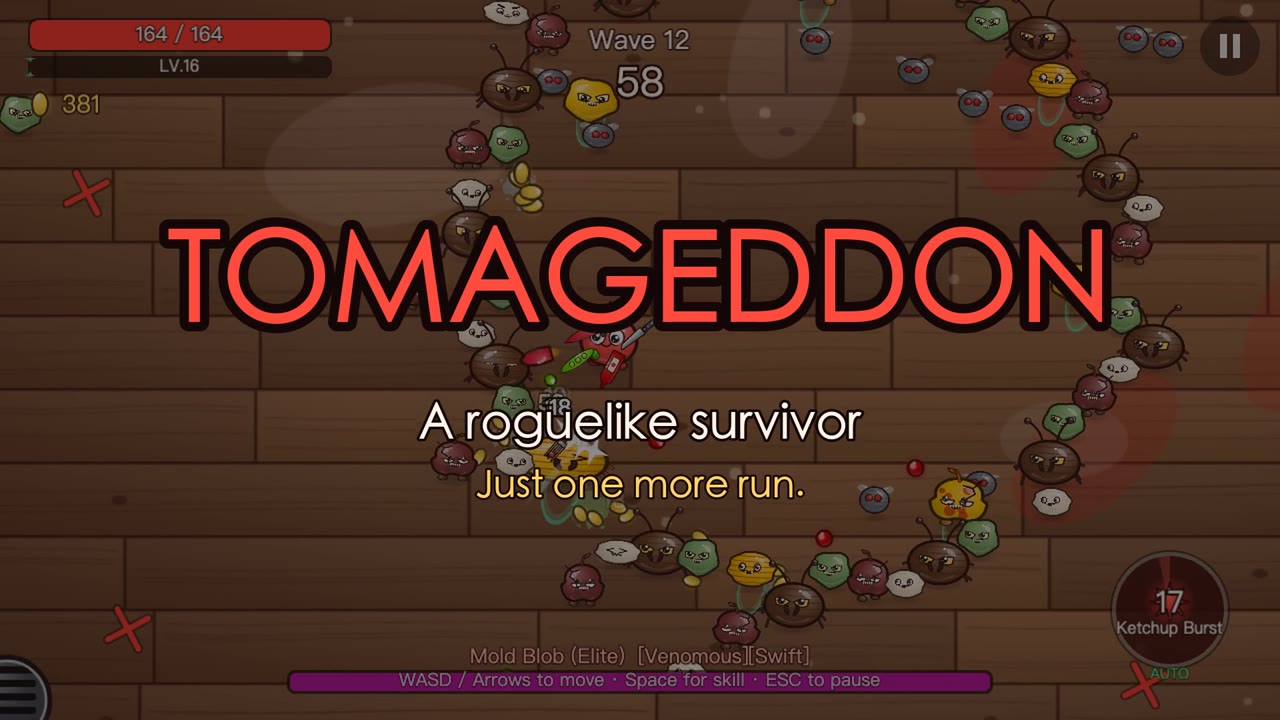
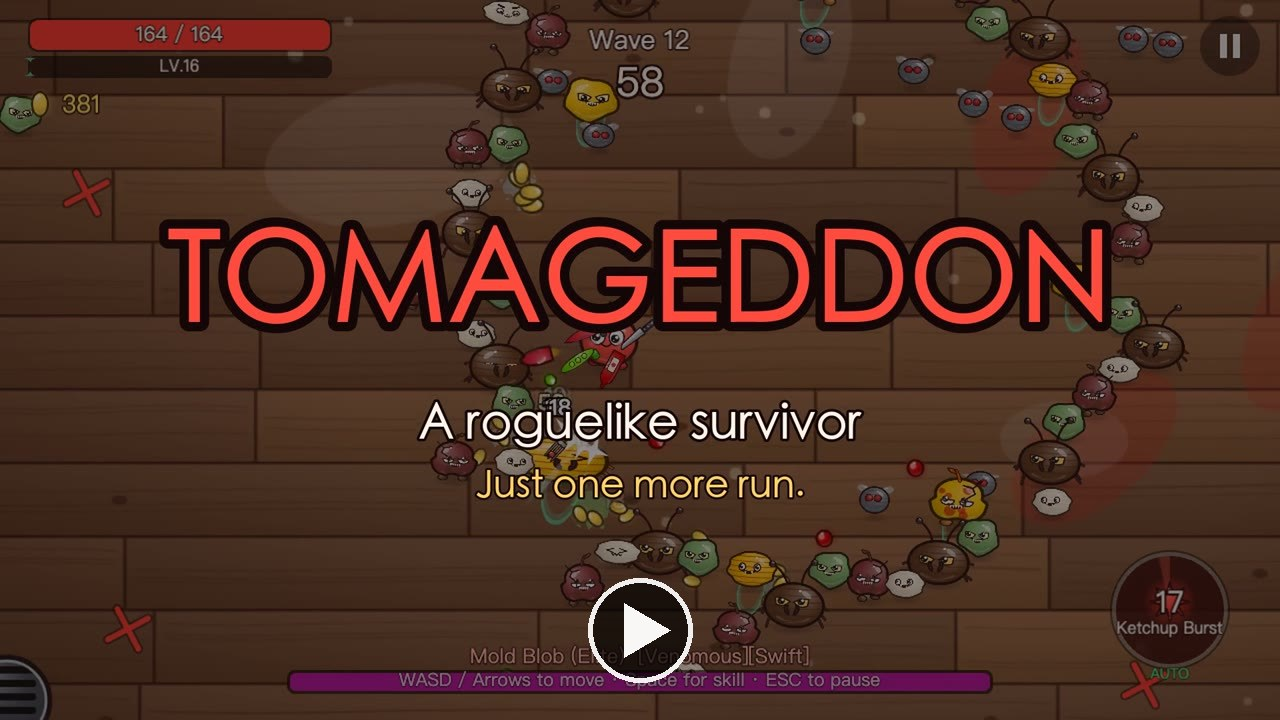
README trailer: clickable poster linking to WebM (GitHub strips <video>)

Changed region(s): [[0.4375, 0.7944, 0.5625, 0.9472]]

diff --git a/README.en.md b/README.en.md
@@ -4,11 +4,9 @@
 
 🎮 **Play online: <https://yourlin.github.io/tomageddon/>** (auto-deployed by GitHub Actions on every push to main)
 
-<video src="https://yourlin.github.io/tomageddon/promo/tomageddon-promo-en.webm" poster="docs/images/promo-poster-en.jpg" controls playsinline width="100%">
-  <a href="https://yourlin.github.io/tomageddon/promo/tomageddon-promo-en.webm"><img src="docs/images/promo-poster-en.jpg" alt="Tomageddon trailer (click to play)" width="100%" /></a>
-</video>
+[![Tomageddon trailer (click to play)](docs/images/promo-poster-en.jpg)](https://yourlin.github.io/tomageddon/promo/tomageddon-promo-en.webm)
 
-[▶ 30-second trailer](https://yourlin.github.io/tomageddon/promo/tomageddon-promo-en.webm)
+<sub>▶ Click the cover to watch the 30-second trailer</sub>
 
 A top-down 2D arena survival roguelite for the browser. Phaser 3 (WebGL) + TypeScript + Vite, PC and landscape mobile, **Chinese and English**. **All art and background music are generated procedurally** — no image or audio assets are needed to run it.
 
@@ -161,7 +159,7 @@ npm run promo:record     # headless Chrome plays the game from a script and reco
 npm run promo:edit       # beat-synced ffmpeg edit → promo/tomageddon-promo.mp4 and -en.mp4
 ```
 
-Footage and renders live in `promo/` (not committed); the WebM versions embedded in the READMEs live in `public/promo/` and ship with GitHub Pages.
+Footage and renders live in `promo/` (not committed); the cover image at the top of each README links to the WebM version in `public/promo/`, served by GitHub Pages (GitHub strips `<video>` tags from READMEs, so the cover links to the video instead).
 
 ### Versioning
 

diff --git a/README.md b/README.md
@@ -4,11 +4,9 @@
 
 🎮 **在线试玩：<https://yourlin.github.io/tomageddon/>**（推送到 main 后由 GitHub Actions 自动发布）
 
-<video src="https://yourlin.github.io/tomageddon/promo/tomageddon-promo-zh.webm" poster="docs/images/promo-poster-zh.jpg" controls playsinline width="100%">
-  <a href="https://yourlin.github.io/tomageddon/promo/tomageddon-promo-zh.webm"><img src="docs/images/promo-poster-zh.jpg" alt="番茄酱宣传片（点击播放）" width="100%" /></a>
-</video>
+[![番茄酱宣传片（点击播放）](docs/images/promo-poster-zh.jpg)](https://yourlin.github.io/tomageddon/promo/tomageddon-promo-zh.webm)
 
-[▶ 30 秒宣传片](https://yourlin.github.io/tomageddon/promo/tomageddon-promo-zh.webm)
+<sub>▶ 点击封面观看 30 秒宣传片</sub>
 
 俯视角 2D 割草生存 Roguelite 浏览器游戏。Phaser 3（WebGL）+ TypeScript + Vite，支持 PC 与移动端横屏，**中英双语**。**美术与背景音乐全部程序生成**，无需任何图片或音频资源即可运行。
 
@@ -161,7 +159,7 @@ npm run promo:record     # 无头 Chrome 按脚本操作游戏并录制各段素
 npm run promo:edit       # ffmpeg 卡点剪辑，输出 promo/tomageddon-promo.mp4 与 -en.mp4
 ```
 
-素材与成片在 `promo/`（不提交）；README 中嵌入的 WebM 版本放在 `public/promo/`，随 GitHub Pages 一起发布。
+素材与成片在 `promo/`（不提交）；README 顶部的封面图链接到 `public/promo/` 中的 WebM 版本（随 GitHub Pages 发布；GitHub 会过滤 README 里的 `<video>` 标签，因此用封面图跳转播放）。
 
 ### 版本号
 
